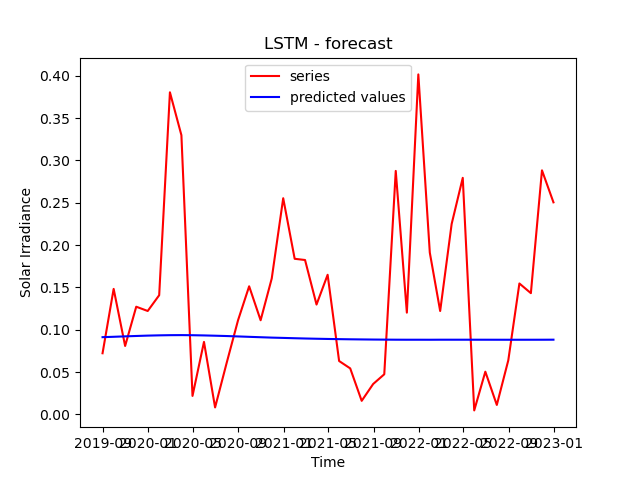
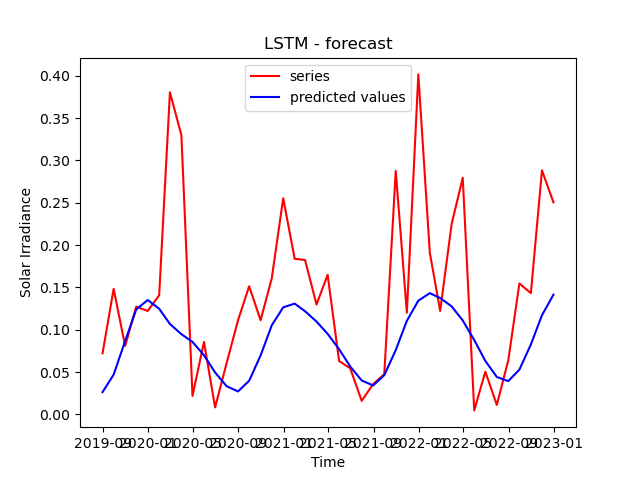
pequenas mudanca
pequenas mudancas no plot do hyper_ltsm

diff --git a/hyper_tunning/hyper_tunning_LSTM.py b/hyper_tunning/hyper_tunning_LSTM.py
@@ -55,10 +55,11 @@ counter = 0
 for neurons_list in neurons_big_list:
     counter += 1
     model = define_model(X_train, neurons_list)
-    model.fit(X_train, y_train, epochs = 300, batch_size = 16)
+    model.fit(X_train, y_train, epochs = 100, batch_size = 16)
     predictions = model_forecast(model, training_set_scaled, test_set_scaled, scaler, windows_size)
     rmse_test = np.sqrt(mean_squared_error(imputed_test, predictions))
-
+    
+    plt.figure() 
     plt.plot(imputed_test.index, imputed_test, color = 'red', label = 'series')
     plt.plot(imputed_test.index, predictions, color = 'blue', label = 'predicted values')
     plt.title('LSTM - forecast')
